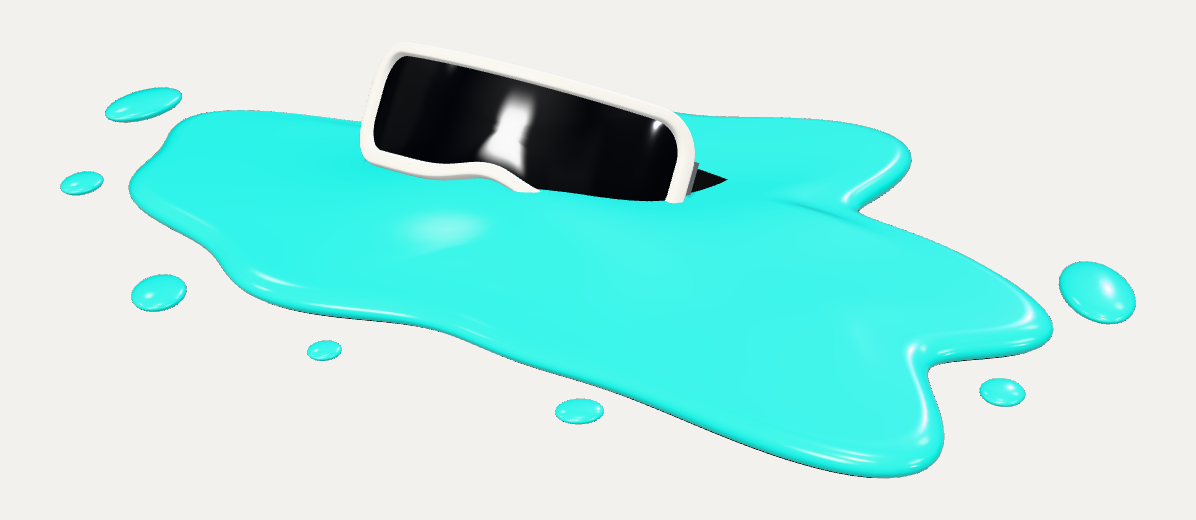
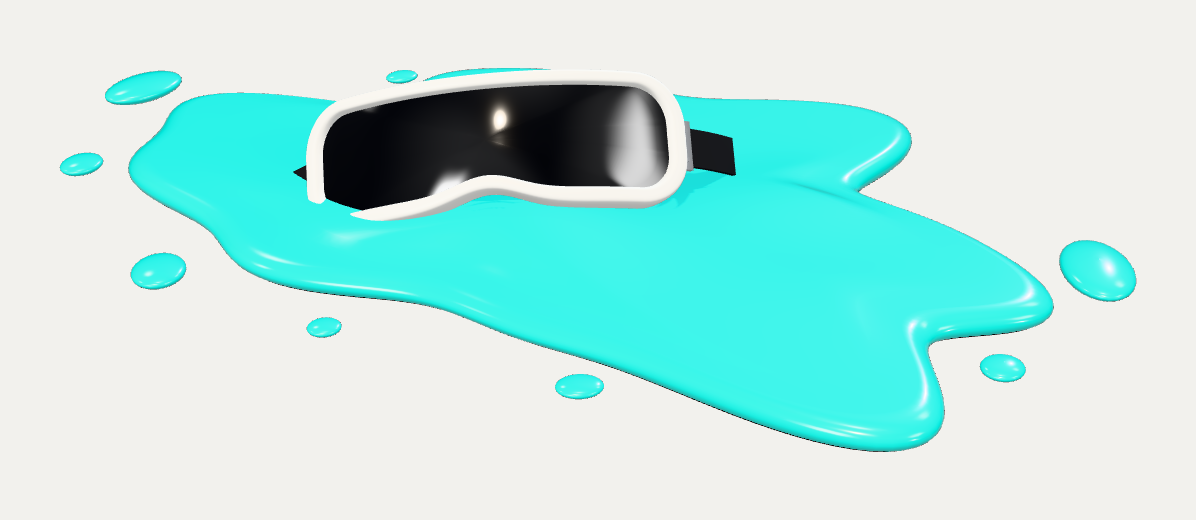
Viewer: neutral tone mapping default; WIP gear/props/pipeline gates
Claude-Session: https://claude.ai/code/session_018GhkyewBDdEkxCWBUa4WJP

Changed region(s): [[0.0309, 0.0923, 0.959, 0.9231]]

diff --git a/src/model/gear.ts b/src/model/gear.ts
@@ -594,6 +594,8 @@ function applyToeSpring(geo: THREE.BufferGeometry): void {
  * toward +Z. Length ≈ 0.42 (heel z = −0.13 … toe z = +0.29), width ≈ 0.19, collar top ≈ 0.21
  * (back) with the padded tongue rising to ≈ 0.24 in front of the ankle.
  * The right shoe is the exact mirror (inner group scale.x = −1) of the left one.
+ * Tagged sub-parts (s = l|r): shoe-upper-s, shoe-collar-s, shoe-collar-trim-s, shoe-midsole-s,
+ * shoe-outsole-s, shoe-tongue-s, shoe-panel-s, shoe-heel-tab-s, shoe-lace-1..4-s.
  */
 export function buildSneaker(mats: SlimeMaterials, side: 'left' | 'right'): THREE.Group {
   const root = new THREE.Group();
@@ -934,9 +936,11 @@ const TK = {
 /**
  * Backpack ink tank rig. Local origin: the mount point on the upper back = centre of the back
  * plate's FRONT face (z = 0 touches the jacket); the tank hangs behind it toward −Z, +Y up.
- * Children (each tagged): `ink-tank` (glass + liquid + caps + bands), `tank-harness-frame`
+ * Tagged containers: `ink-tank` (glass + liquid + caps + bands), `tank-harness-frame`
  * (plate, rails, clamp brackets), `tank-hose` (corrugated hose ending at the right hip at
- * ≈ (−0.17, −0.24, +0.02)).
+ * ≈ (−0.17, −0.24, +0.02)). Tagged sub-parts (componentTree ids): tank, tank-liquid,
+ * tank-bubble-1..4, tank-cap-top, tank-valve, tank-cap-bottom, tank-band-top, tank-band-bottom,
+ * back-plate, hose, hose-coupler.
  */
 export function buildInkTank(mats: SlimeMaterials): THREE.Group {
   const root = new THREE.Group();
@@ -948,6 +952,17 @@ export function buildInkTank(mats: SlimeMaterials): THREE.Group {
   tank.position.set(0, 0, TK.z);
   root.add(tank);
   const R = TK.r;
+  /** Tagged sub-part group inside a container (componentTree ids). */
+  const sub = (parent: THREE.Object3D, id: string, module: string): THREE.Group => {
+    const g = new THREE.Group();
+    tagPart(g, id, module);
+    parent.add(g);
+    return g;
+  };
+  const liquidGroup = sub(tank, 'tank-liquid', 'ink-tank');
+  const capTop = sub(tank, 'tank-cap-top', 'ink-tank');
+  const valveGroup = sub(capTop, 'tank-valve', 'ink-tank');
+  const capBottom = sub(tank, 'tank-cap-bottom', 'ink-tank');
 
   // Liquid first (opaque-ish, inside), then the glass shell.
   const liquidTop = 0.08;
@@ -958,10 +973,10 @@ export function buildInkTank(mats: SlimeMaterials): THREE.Group {
   const liquidMesh = mesh('ink-liquid', liquid, mats.inkLiquid);
   // Drawn after the (depth-write-free) glass so the ink keeps its saturated sheet colour.
   liquidMesh.renderOrder = 2;
-  tank.add(liquidMesh);
+  liquidGroup.add(liquidMesh);
   // Meniscus ring: a thin brighter lip where the liquid meets the glass.
   const meniscus = new THREE.TorusGeometry(0.0632, 0.0022, 8, 48).rotateX(Math.PI / 2).translate(0, liquidTop - 0.0015, 0);
-  tank.add(mesh('ink-meniscus', meniscus, mats.inkLiquid));
+  liquidGroup.add(mesh('ink-meniscus', meniscus, mats.inkLiquid));
 
   const rnd = seededRandom(4021);
   // Bubbles: small pale beads floating in the ink (read as the sheet's white dots).
@@ -971,13 +986,16 @@ export function buildInkTank(mats: SlimeMaterials): THREE.Group {
     const rad = 0.03 + rnd() * 0.03;
     const y = -0.105 + rnd() * 0.17;
     const b = new THREE.SphereGeometry(r, 10, 8).translate(Math.sin(ang) * rad, y, Math.cos(ang) * rad);
-    tank.add(mesh(`ink-bubble-${i + 1}`, b, mats.whitePlastic));
+    const bubble = mesh(`ink-bubble-${i + 1}`, b, mats.whitePlastic);
+    if (i < 4) tagPart(bubble, `tank-bubble-${i + 1}`, 'ink-tank');
+    liquidGroup.add(bubble);
   }
 
   const glass = new THREE.CylinderGeometry(R, R, TK.glassHalf * 2, 56, 1, true);
   const glassMesh = mesh('tank-glass', glass, mats.glass);
   glassMesh.renderOrder = 1;
   glassMesh.castShadow = false;
+  tagPart(glassMesh, 'tank', 'ink-tank');
   tank.add(glassMesh);
 
   // Metal bands near each end of the glass (two-tone: a dark groove in the middle).
@@ -987,41 +1005,42 @@ export function buildInkTank(mats: SlimeMaterials): THREE.Group {
     [0.0702, -h],
   ];
   for (const sgn of [1, -1]) {
+    const bandGroup = sub(tank, sgn > 0 ? 'tank-band-top' : 'tank-band-bottom', 'ink-tank');
     const band = lathe(bandProfile(sgn > 0 ? 0.019 : 0.0165), 56).translate(0, sgn * TK.bandY, 0);
-    tank.add(mesh(sgn > 0 ? 'tank-band-top' : 'tank-band-bottom', band, mats.metal));
+    bandGroup.add(mesh(sgn > 0 ? 'tank-band-top-ring' : 'tank-band-bottom-ring', band, mats.metal));
     const groove = new THREE.CylinderGeometry(0.0751, 0.0751, 0.0062, 56, 1, true).translate(0, sgn * TK.bandY, 0);
-    tank.add(mesh(sgn > 0 ? 'tank-band-top-groove' : 'tank-band-bottom-groove', groove, mats.blackPlastic));
+    bandGroup.add(mesh(sgn > 0 ? 'tank-band-top-groove' : 'tank-band-bottom-groove', groove, mats.blackPlastic));
   }
 
   // Top cap: black dome with a neck, a metal collar and a small valve nub.
   const topCap = smoothLathe([
     [0.0738, 0.114], [0.0744, 0.126], [0.0722, 0.142], [0.064, 0.156], [0.05, 0.166], [0.034, 0.171], [0.0001, 0.172],
   ], 28, 56);
-  tank.add(mesh('tank-cap-top', topCap, mats.blackPlastic));
-  tank.add(mesh('tank-cap-top-inner', new THREE.CircleGeometry(0.0702, 48).rotateX(Math.PI / 2).translate(0, TK.glassHalf - 0.004, 0), mats.blackPlastic));
+  capTop.add(mesh('tank-cap-top-dome', topCap, mats.blackPlastic));
+  capTop.add(mesh('tank-cap-top-inner', new THREE.CircleGeometry(0.0702, 48).rotateX(Math.PI / 2).translate(0, TK.glassHalf - 0.004, 0), mats.blackPlastic));
   const neck = lathe([
     [0.0001, 0.166], [0.027, 0.166], [0.028, 0.172], [0.028, 0.199], [0.026, 0.205], [0.016, 0.208], [0.0001, 0.2085],
   ], 40);
-  tank.add(mesh('tank-neck', neck, mats.blackPlastic));
+  capTop.add(mesh('tank-neck', neck, mats.blackPlastic));
   const collar = lathe([
     [0.029, 0.17], [0.0325, 0.1705], [0.0335, 0.1745], [0.0325, 0.1785], [0.029, 0.179],
   ], 40);
-  tank.add(mesh('tank-neck-ring', collar, mats.metal));
+  capTop.add(mesh('tank-neck-ring', collar, mats.metal));
   const valve = alongDir(new THREE.CylinderGeometry(0.0075, 0.0085, 0.022, 16), new THREE.Vector3(0.033, 0.19, 0), new THREE.Vector3(1, 0, 0));
-  tank.add(mesh('tank-valve', valve, mats.blackPlastic));
+  valveGroup.add(mesh('tank-valve-stem', valve, mats.blackPlastic));
   const valveKnob = alongDir(new THREE.CylinderGeometry(0.0105, 0.0105, 0.006, 20), new THREE.Vector3(0.045, 0.19, 0), new THREE.Vector3(1, 0, 0));
-  tank.add(mesh('tank-valve-knob', valveKnob, mats.metal));
+  valveGroup.add(mesh('tank-valve-knob', valveKnob, mats.metal));
 
   // Bottom cap + fitting.
   const botCap = smoothLathe([
     [0.0001, -0.164], [0.042, -0.164], [0.056, -0.158], [0.067, -0.147], [0.0732, -0.132], [0.0744, -0.122], [0.0738, -0.114],
   ], 28, 56);
-  tank.add(mesh('tank-cap-bottom', botCap, mats.blackPlastic));
-  tank.add(mesh('tank-cap-bottom-inner', new THREE.CircleGeometry(0.0702, 48).rotateX(-Math.PI / 2).translate(0, -TK.glassHalf + 0.004, 0), mats.blackPlastic));
+  capBottom.add(mesh('tank-cap-bottom-dome', botCap, mats.blackPlastic));
+  capBottom.add(mesh('tank-cap-bottom-inner', new THREE.CircleGeometry(0.0702, 48).rotateX(-Math.PI / 2).translate(0, -TK.glassHalf + 0.004, 0), mats.blackPlastic));
   const fitting = lathe([
     [0.0001, -0.16], [0.04, -0.16], [0.042, -0.164], [0.042, -0.18], [0.039, -0.184], [0.024, TK.fittingY], [0.0001, TK.fittingY],
   ], 40);
-  tank.add(mesh('tank-fitting', fitting, mats.blackPlastic));
+  capBottom.add(mesh('tank-fitting', fitting, mats.blackPlastic));
   tagPart(tank, 'ink-tank');
 
   // ------------------------------------------------------------------ harness frame
@@ -1036,11 +1055,12 @@ export function buildInkTank(mats: SlimeMaterials): THREE.Group {
       for (const sy of [-1, 1]) shape.holes.push(rectHole(0.036, 0.011, 0.004, sx * 0.058, sy * 0.122));
     }
     const plate = extrudeCentered(shape, TK.plateT - 2 * bevel, bevel, 10).translate(0, 0, -TK.plateT / 2);
-    frame.add(mesh('tank-back-plate', plate, mats.blackPlastic));
+    const backPlate = sub(frame, 'back-plate', 'tank-harness-frame');
+    backPlate.add(mesh('tank-back-plate', plate, mats.blackPlastic));
     // Side rails along the plate's back edges.
     for (const sx of [-1, 1]) {
       const rail = new THREE.CapsuleGeometry(0.0105, 0.235, 6, 14).translate(sx * 0.086, 0, -TK.plateT - 0.004);
-      frame.add(mesh(sx > 0 ? 'tank-rail-l' : 'tank-rail-r', rail, mats.rubberBlack));
+      backPlate.add(mesh(sx > 0 ? 'tank-rail-l' : 'tank-rail-r', rail, mats.rubberBlack));
     }
     // Clamp brackets: metal half-bands round the tank on the plate side + a mount block each.
     for (const y of [0.066, -0.066]) {
@@ -1086,16 +1106,20 @@ export function buildInkTank(mats: SlimeMaterials): THREE.Group {
     const len = curve.getLength();
     const ribs = Math.round(len / 0.0135);
     const geo = ribbedTube(curve, 0.018, ribs, 0.2, { radialSegments: 14 });
-    hose.add(mesh('tank-hose-tube', geo, mats.rubberBlack));
+    hose.add(tagPart(mesh('tank-hose-tube', geo, mats.rubberBlack), 'hose', 'tank-hose'));
     // Ferrules at both ends.
     const t0 = curve.getTangentAt(0);
     const startFerrule = alongDir(new THREE.CylinderGeometry(0.0215, 0.0215, 0.016, 24), curve.getPointAt(0).addScaledVector(t0, 0.004), t0);
     hose.add(mesh('tank-hose-ferrule-top', startFerrule, mats.metal));
     const t1 = curve.getTangentAt(1);
     const endFerrule = alongDir(new THREE.CylinderGeometry(0.023, 0.023, 0.02, 24), curve.getPointAt(1).addScaledVector(t1, -0.006), t1);
-    hose.add(mesh('tank-hose-ferrule-hip', endFerrule, mats.blackPlastic));
+    const coupler = sub(hose, 'hose-coupler', 'tank-hose');
+    coupler.add(mesh('tank-hose-coupler-body', endFerrule, mats.blackPlastic));
     const endRing = alongDir(new THREE.CylinderGeometry(0.0245, 0.0245, 0.006, 24), curve.getPointAt(1).addScaledVector(t1, -0.017), t1);
-    hose.add(mesh('tank-hose-ferrule-hip-ring', endRing, mats.metal));
+    coupler.add(mesh('tank-hose-coupler-ring', endRing, mats.metal));
+    // Flange that butts against the hip / belt.
+    const flange = alongDir(new THREE.CylinderGeometry(0.03, 0.03, 0.006, 28), curve.getPointAt(1).addScaledVector(t1, 0.002), t1);
+    coupler.add(mesh('tank-hose-coupler-flange', flange, mats.blackPlastic));
   }
   tagPart(hose, 'tank-hose');
 

diff --git a/src/main.ts b/src/main.ts
@@ -31,7 +31,7 @@ import {
  *   blaster= 1 — humanoid holds the blaster (figure views)
  *   ground = 0 — hide the shadow-catcher ground
  *   bg     = RRGGBB background override
- *   tone   = aces (default) | neutral | agx;  exposure, env, hemi, key = lighting overrides
+ *   tone   = neutral (default) | aces | agx;  exposure, env, hemi, key = lighting overrides
  */
 
 type ViewName = 'front' | 'three-quarter' | 'side' | 'back' | 'blaster' | 'swim' | 'orbit' | 'turntable';
@@ -111,9 +111,10 @@ const mount = document.getElementById('app')!;
 const renderer = new THREE.WebGLRenderer({ antialias: true, preserveDrawingBuffer: true });
 renderer.setPixelRatio(Math.min(window.devicePixelRatio, 2));
 const toneParam = params.get('tone');
+// Khronos PBR Neutral keeps the sheet's saturated turquoise/magenta; ACES washes them to pastel.
 renderer.toneMapping = toneParam === 'agx' ? THREE.AgXToneMapping
-  : toneParam === 'neutral' ? THREE.NeutralToneMapping
-    : THREE.ACESFilmicToneMapping;
+  : toneParam === 'aces' ? THREE.ACESFilmicToneMapping
+    : THREE.NeutralToneMapping;
 renderer.toneMappingExposure = num('exposure') ?? 1.0;
 renderer.outputColorSpace = THREE.SRGBColorSpace;
 renderer.shadowMap.enabled = true;
@@ -132,16 +133,16 @@ scene.background = new THREE.Color(bgHex);
 const pmrem = new THREE.PMREMGenerator(renderer);
 const envTexture = pmrem.fromScene(new RoomEnvironment(), 0.04).texture;
 scene.environment = envTexture;
-scene.environmentIntensity = num('env') ?? 0.5;
+scene.environmentIntensity = num('env') ?? 0.7;
 pmrem.dispose();
 
 // Studio rig. Positions are expressed relative to the viewing azimuth and re-placed whenever the
 // camera azimuth changes, so every review view is lit the same way relative to the viewer — the
 // way a character sheet is drawn (key upper-left, cool rim from behind).
-const hemi = new THREE.HemisphereLight(0xffffff, 0xd9d4ca, num('hemi') ?? 0.65);
+const hemi = new THREE.HemisphereLight(0xffffff, 0xd9d4ca, num('hemi') ?? 0.55);
 scene.add(hemi);
 
-const key = new THREE.DirectionalLight(0xfff2e0, num('key') ?? 2.2);
+const key = new THREE.DirectionalLight(0xfff2e0, num('key') ?? 1.9);
 key.castShadow = true;
 key.shadow.mapSize.set(2048, 2048);
 key.shadow.bias = -0.0003;

diff --git a/pipeline/headless/export_hair_scalp.ts b/pipeline/headless/export_hair_scalp.ts
@@ -1,0 +1,39 @@
+// Export inputs for forge/stage4_review/scalp_exposure.py from the EXECUTED factory (no renderer):
+//   skull.json  = ring stack [[y, rx, rz, zc], ...] of the head ellipsoid in head-local space
+//   hair.json   = every hair-role mesh vertex (after standProud) in head-local space
+import * as THREE from 'three';
+import { writeFileSync } from 'node:fs';
+import { createSlimeAgentModel } from '../generated/createSlimeAgentModel.generated.ts';
+
+const outDir = process.argv[2] ?? '.';
+const root = createSlimeAgentModel({});
+root.updateMatrixWorld(true);
+const rt = (root.userData as any).sculptRuntime;
+const headNode: THREE.Object3D = rt.nodes['head'];
+const headMesh: THREE.Mesh = rt.meshes['head'];
+headMesh.geometry.computeBoundingBox();
+const bb = headMesh.geometry.boundingBox!;
+const rx = (bb.max.x - bb.min.x) / 2, ry = (bb.max.y - bb.min.y) / 2, rz = (bb.max.z - bb.min.z) / 2;
+const rings: number[][] = [];
+for (let i = 0; i <= 24; i++) {
+  const y = -ry + (2 * ry * i) / 24;
+  const k = Math.sqrt(Math.max(0, 1 - (y / ry) ** 2));
+  rings.push([+y.toFixed(5), +Math.max(1e-4, rx * k).toFixed(5), +Math.max(1e-4, rz * k).toFixed(5), 0]);
+}
+const inv = new THREE.Matrix4().copy(headNode.matrixWorld).invert();
+const hair: number[][] = [];
+const ids: string[] = [];
+for (const [id, mesh] of Object.entries(rt.meshes as Record<string, THREE.Mesh>)) {
+  const role = (mesh.userData.sculptComponent ?? {}).role;
+  if (role !== 'hair') continue;
+  ids.push(id);
+  const pos = mesh.geometry.attributes.position;
+  const v = new THREE.Vector3();
+  for (let i = 0; i < pos.count; i++) {
+    v.fromBufferAttribute(pos, i).applyMatrix4(mesh.matrixWorld).applyMatrix4(inv);
+    hair.push([+v.x.toFixed(5), +v.y.toFixed(5), +v.z.toFixed(5)]);
+  }
+}
+writeFileSync(`${outDir}/skull-rings.json`, JSON.stringify(rings));
+writeFileSync(`${outDir}/hair-points.json`, JSON.stringify(hair));
+console.log(JSON.stringify({ headRadii: [rx, ry, rz], rings: rings.length, hairPoints: hair.length, hairMeshes: ids }));
